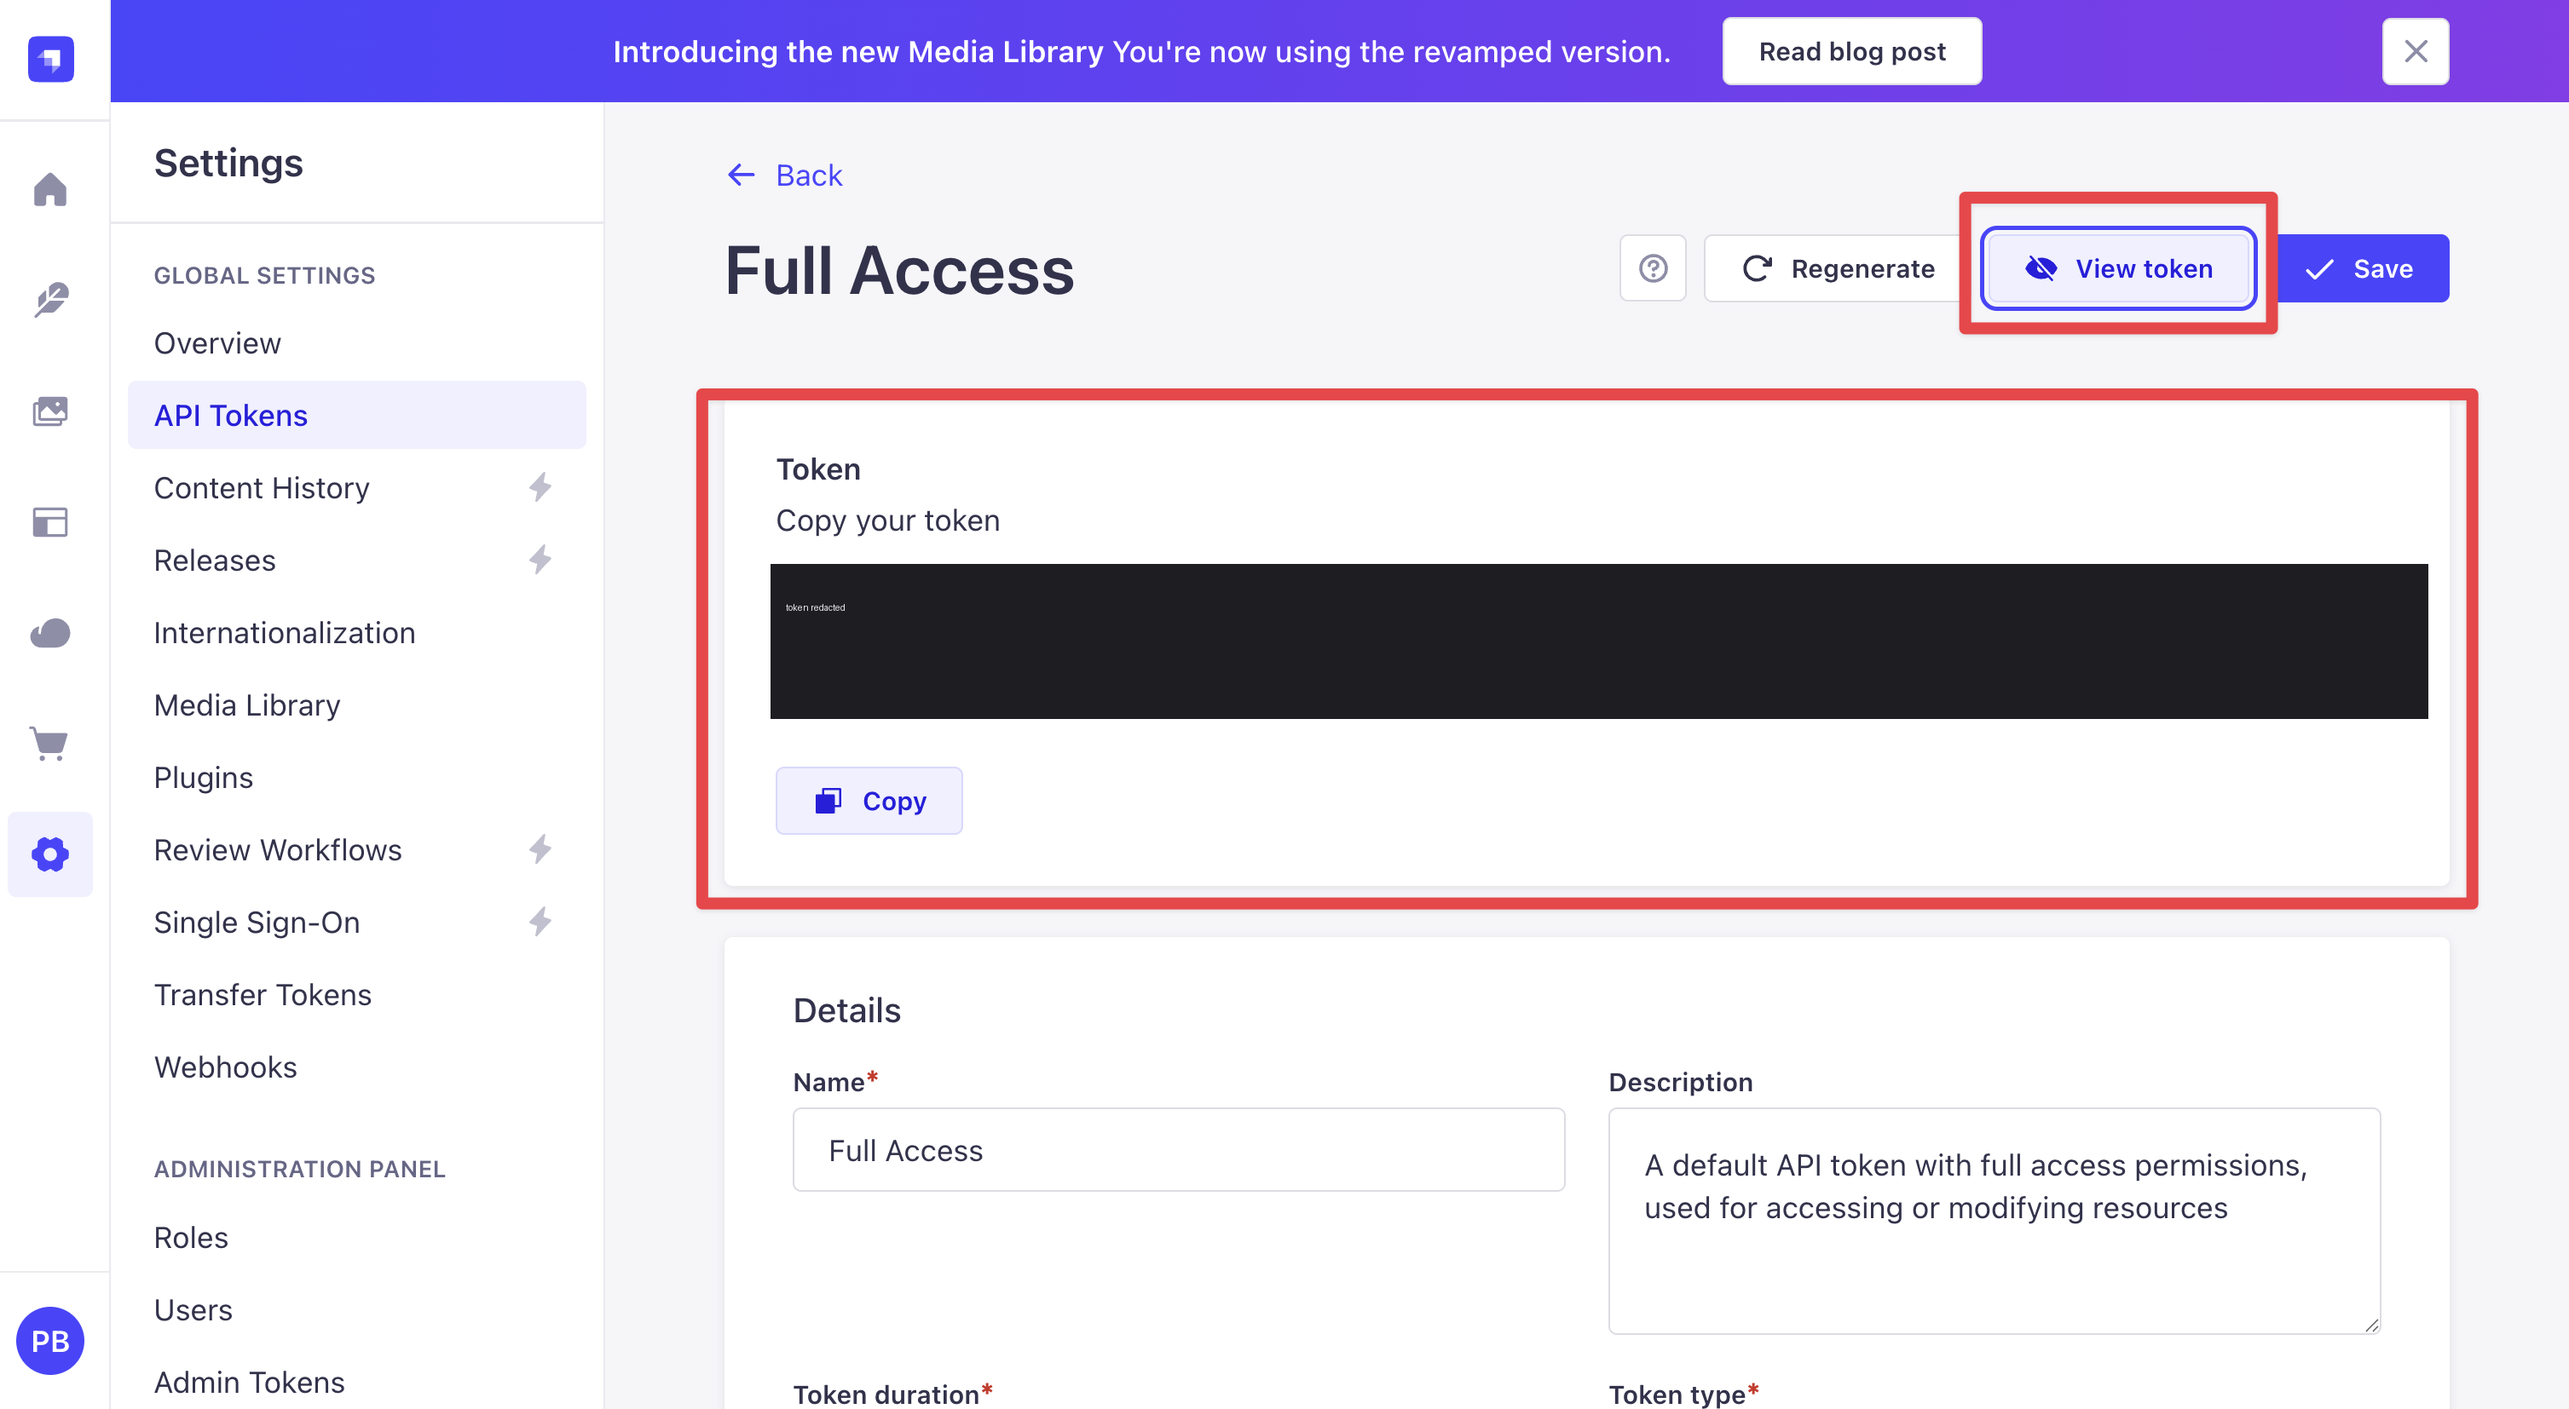
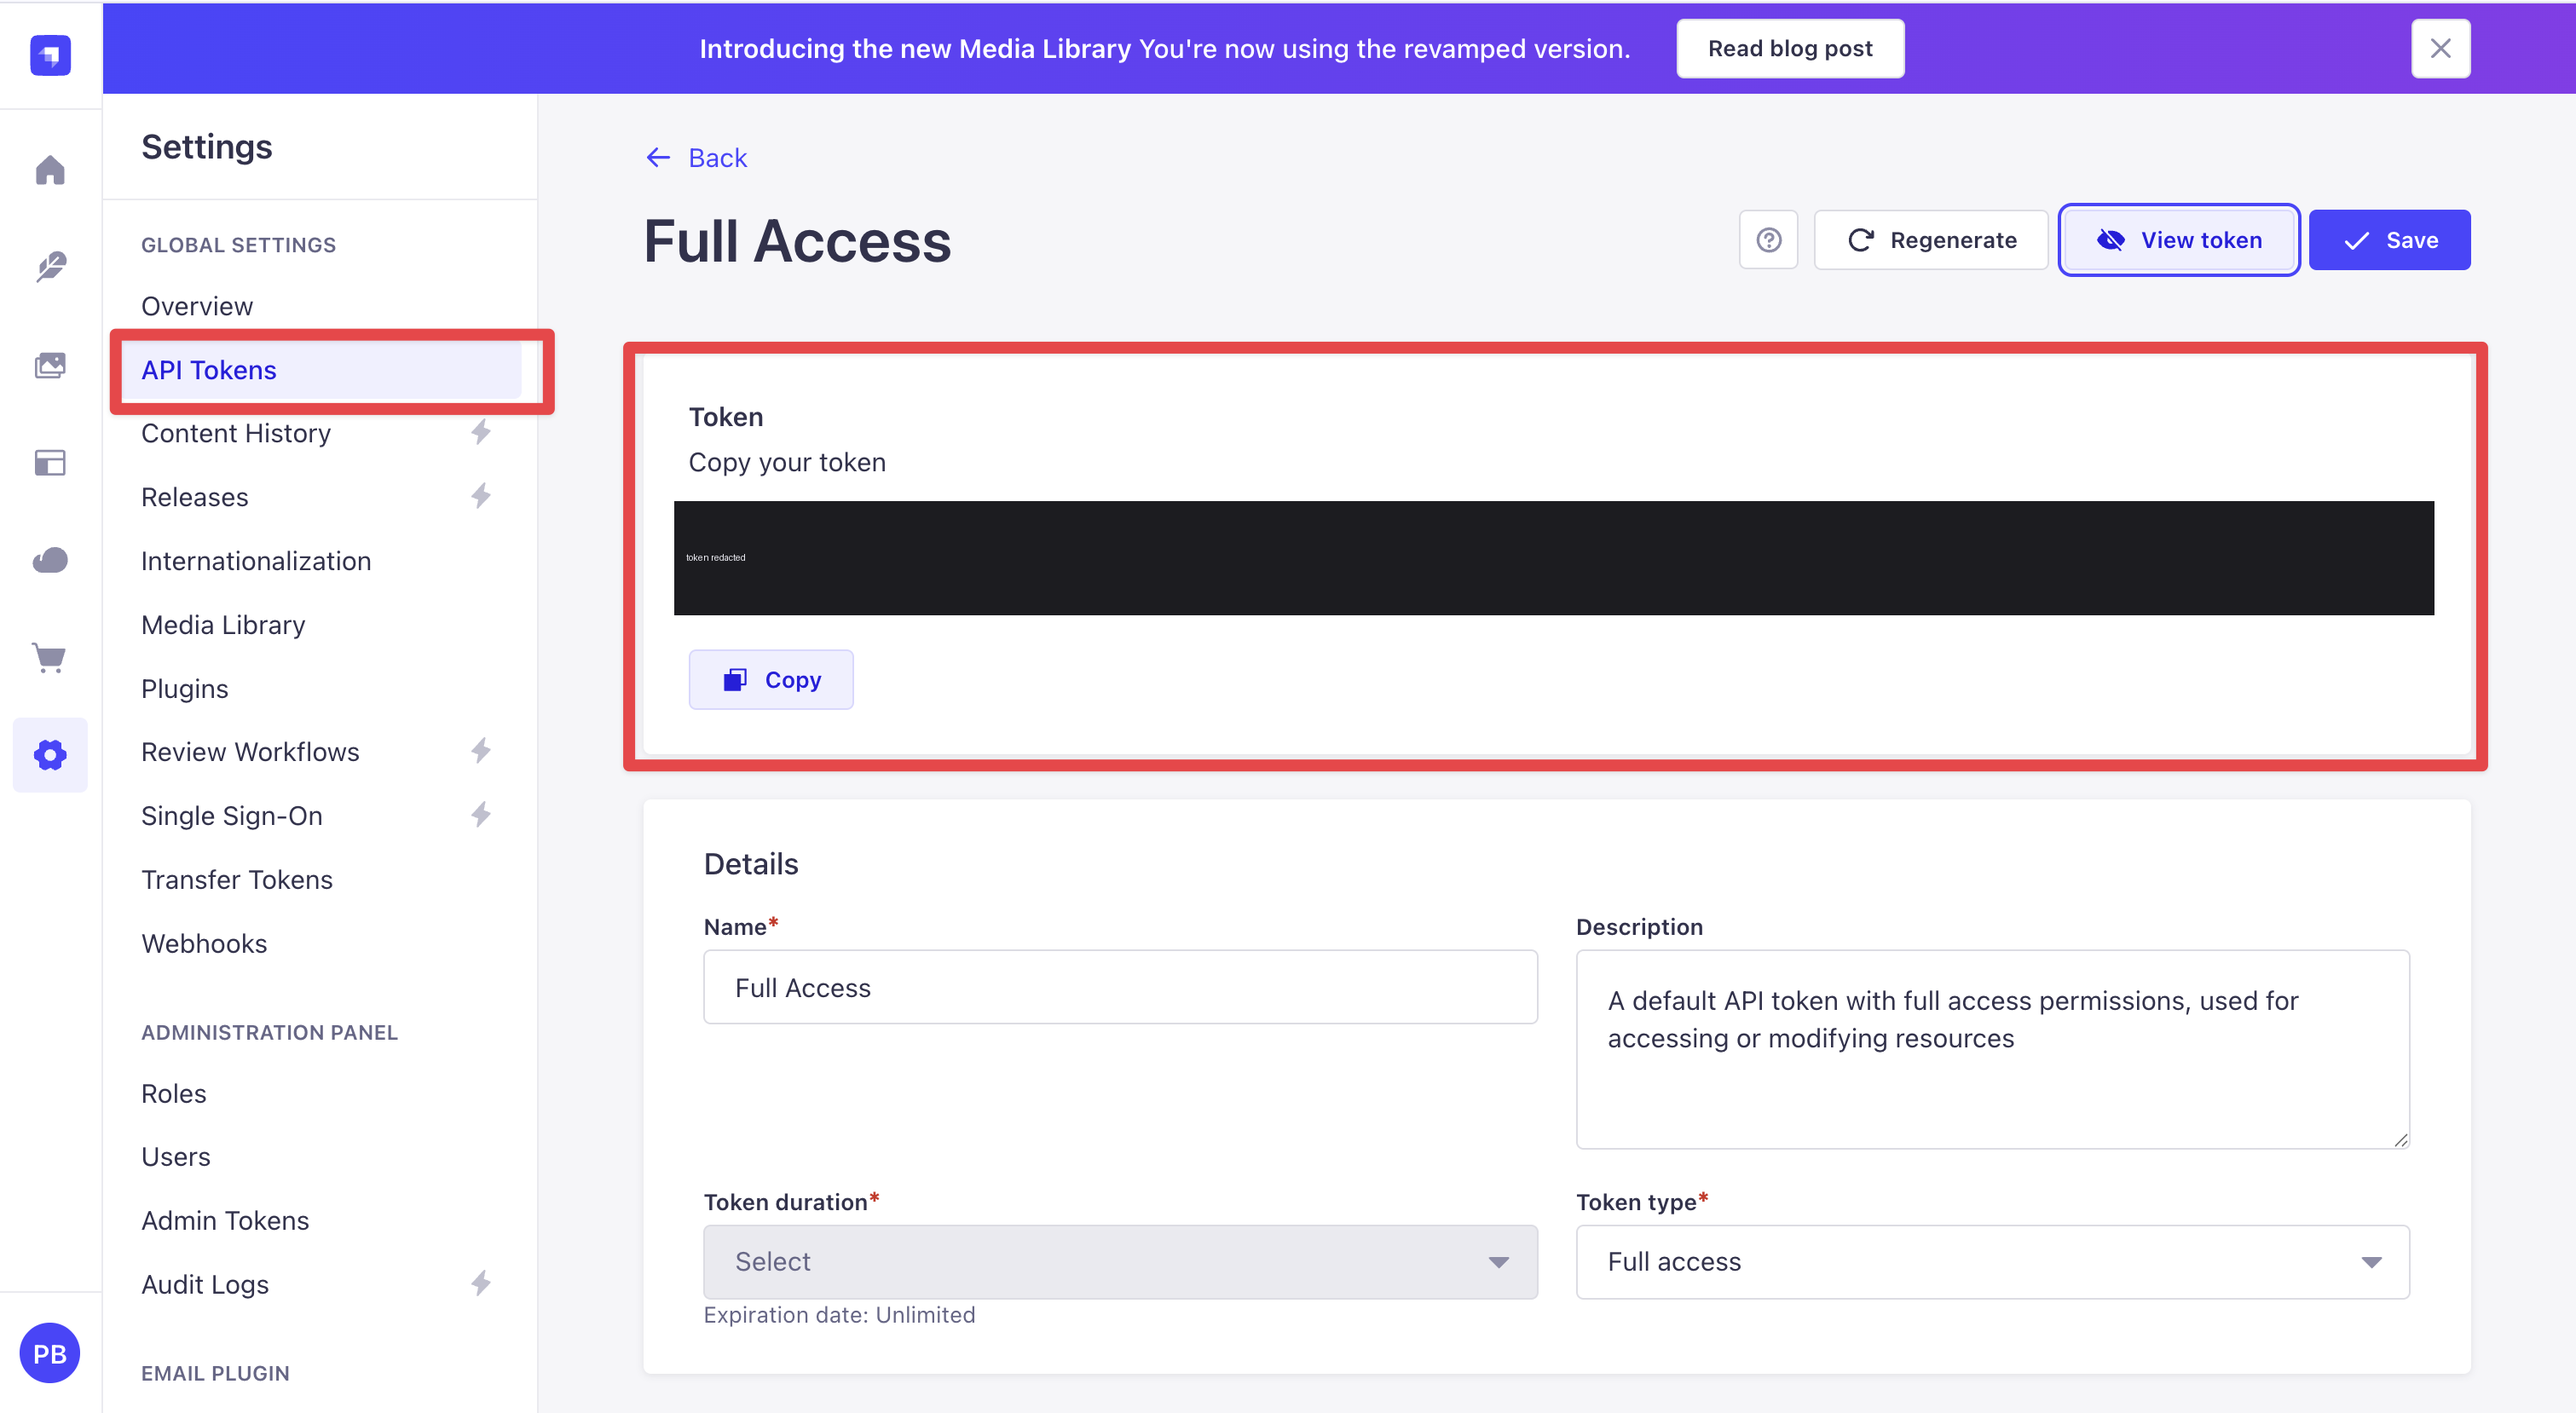
docs(blog): reframe the scale section, and add the application-password screenshot
"What breaks at 100,000 entries" described a limit that had already been fixed
and read as a list of reasons not to trust the tool. It is now "Running it on a
big site", and it leads with what the engine does for you: the export writes one
file per post type as it goes and resumes where it stopped, uploads are
remembered in .migration-state.json, a re-run updates rather than duplicating
because every entry stores its WordPress id and source site, --only, --limit and
--since take the job in slices, and preflight refuses a run it cannot finish.

Three things to keep in mind follow, as separate bullets rather than one
paragraph: memory, time, relations, each said in terms of what a reader would
notice. Then the caveat: on a genuinely large site, use the skill to settle the
content model, which costs the same at 300 entries or 300,000, and ask Claude to
write a loader built for those numbers with WP-CLI and the Document Service API.

Dropped the strapi import and strapi transfer paragraph. Those move data between
Strapi projects with identical content types and have nothing to do with reading
WordPress. Also dropped the history of the old single-file export and the
536,870,888 character limit, which described a bug the reader will never meet.

The lead-in above the section contradicted it, saying this is the wrong tool for
tens of thousands of entries one line before the section says most of that is
handled. It now hands off to the section instead.
[…]

diff --git a/docs/blog/wordpress-to-strapi.md b/docs/blog/wordpress-to-strapi.md
@@ -575,11 +575,10 @@ site, including drafts and custom fields.
 
 1. In WP Admin, go to **Users, Profile**.
 2. Scroll down to **Application Passwords**.
-3. Type a name such as `strapi-migration` and click **Add Application Password**.
-4. Copy the password it shows. WordPress will not show it again.
-
+3. Type a name such as `test-strapi-migration` and click **Add Application Password**.
 ![The Application Passwords section of a WordPress user profile, with Users, Profile highlighted in the left menu, a name typed into the New Application Password Name field, and the Add Application Password button below it.](images/011-local-setup-4.png)
-
+4. Copy the password it shows. WordPress will not show it again.
+![WordPress showing the new application password after it is created, with the password itself blacked out here, above a table listing it by name with a Revoke button.](images/011-local-setup-7.1.png)
 
 You will give it to Claude in section 3.
 
@@ -839,54 +838,57 @@ go, and the run reports every widget it skipped with counts, which is the to-do 
 file. `SKILL.md` is what Claude reads, so a house rule like "always use a dynamic zone for
 landing pages" is one sentence.
 
-**Know when this is the wrong tool.** If you are moving tens of thousands of entries, or you need
-a production cutover with a rollback plan, you want purpose-built tooling and a staging rehearsal.
+**Know what changes on a bigger site.** A production cutover needs a rehearsal on a staging copy
+and a way back if it goes wrong, whatever tool you use. Size changes things too, and the next
+section covers what the skill handles for you and what it does not.
 
-### What breaks at 100,000 entries
+### Running it on a big site
 
-The largest site we have run this against held 343 entries and 204 files. Until recently the
-export wrote everything into one `export.json`, and the analyze and migrate steps parsed that
-whole file. On a site with 100,000 posts the file passes what Node can hold in a single string,
-536,870,888 characters on the version we tested, and the run stops before any decision is made.
+The biggest site we have run this against had 343 entries and 204 files. Most of what makes a
+large run painful is already handled, and the rest is worth knowing before you start.
 
-The export now writes one file per post type, `wp-export/entries/<type>.ndjson`, with one entry
-per line, plus a small `export.json` holding the site, types, taxonomies, terms, users and media.
-Nothing is ever one giant string, and because each type's file is complete the moment it is
-written, an interrupted export resumes instead of starting again. Only `--fresh` re-fetches what
-is already on disk.
+**The run picks up where it stopped.** The export writes one file per post type as it goes, so a
+run that dies on type nine keeps the eight it finished. Start it again and it only fetches what is
+missing. `--fresh` re-fetches everything.
 
-Three limits are still real at that size. A whole-site run holds every entry in memory, so 100,000
-posts is bounded by RAM rather than by a parse error. Entries migrate four at a time, each costing
-an API call to look up and another to write, which is hours of wall clock. And relations are wired
-by listing every existing entry of the target type, 100 per request, held in one map.
+**Uploaded files are remembered.** Every upload is recorded in `.migration-state.json`. A second
+run reuses the file already in Strapi instead of sending it again, which matters because images
+take far longer than text.
 
-**What to do instead.** Use the skill for the part it is good at, which is deciding the content
-model, then move the bulk another way:
+**Running it again is safe.** Each entry stores the WordPress id and the site it came from, so a
+second run updates that entry rather than creating a duplicate. This is what makes it reasonable
+to stop half way, change the config, and continue.
 
-- **Rehearse on a slice.** `--only post --limit 500` on a copy gives you a content model, a
-  `migration-plan.md` and a list of what does not convert cleanly. That is the expensive thinking,
-  and it is the same at any size.
-- **Read WordPress from the database, not the REST API.** WP-CLI will page through content without
-  HTTP overhead or authentication: `wp post list --post_type=post --format=json --fields=ID,post_title,post_name,post_date,post_status`.
-  Write one file per type, or per month, so nothing has to be parsed whole.
-- **Write into Strapi from inside Strapi.** The
-  [Document Service API](https://docs.strapi.io/cms/api/document-service) runs in the application
-  rather than over HTTP: `await strapi.documents('api::post.post').create({ data })`. There is no
-  bulk create, so you still loop, but you drop the per-request cost and the token. Run it from a
-  script the project loads, and use Postgres rather than the tutorial's SQLite.
-- **Keep every batch repeatable.** Match entries on their WordPress id and source site, the way
-  the engine does, so a rerun updates instead of duplicating and you can stop and resume per type
-  or per date range.
-- **Move the files separately.** Media is the slow half. Copy the uploads directory and register
-  the files, or point Strapi at the same S3 bucket, instead of downloading and re-uploading each
-  one through the API.
-- **Plan the cutover as two passes.** Migrate the archive while the old site keeps publishing,
-  then catch up on what changed with a date filter, which is what `--since` does here.
+**You can take it in slices.** `--only post,page` does two types. `--limit 200` does the first two
+hundred entries of each. `--since 2026-01-01` does only what changed after a date, which is how
+you catch up on posts published while you were working.
 
-One thing that sounds like a shortcut and is not: `strapi import` and `strapi transfer` only move
-data between Strapi projects whose content types are
-[identical](https://docs.strapi.io/cms/data-management/import). They are useful for pushing a
-finished dataset from a local run to production, and useless for reading WordPress.
+**It refuses to start a run it cannot finish.** The checks before the first write catch a relation
+pointing at a type nobody defined, a component Strapi has not loaded, or a token that cannot
+write. A half-finished migration is worse than one that never began.
+
+Three things to keep in mind as the numbers grow:
+
+- **Memory.** The analyze and migrate steps load every entry of the types they are working on.
+  A single run covering 100,000 posts wants more memory than most laptops have.
+- **Time.** Entries are written four at a time, and each one costs a request to look for it and
+  another to write it. A large run is measured in hours.
+- **Relations.** Before connecting a post to its author, the engine fetches every author already
+  in Strapi, 100 per request.
+
+All three get easier the same way: work one post type at a time, and use `--limit` while you are
+still deciding what the model should be.
+
+**For a genuinely large site, split the job.** Use the skill for the content model, which costs the
+same whether you have 300 entries or 300,000: run it on a few hundred, read `migration-plan.md`,
+and settle what each field becomes. Then, with that model decided, ask Claude to write a loader
+built for your numbers. The pieces are well documented: read WordPress with WP-CLI rather than the
+REST API (`wp post list --post_type=post --format=json`), and write into Strapi from inside the
+application with
+[`strapi.documents('api::post.post').create({ data })`](https://docs.strapi.io/cms/api/document-service),
+which needs no HTTP request and no API token. Keep the two habits the engine uses: store the
+WordPress id on every entry so a re-run updates instead of duplicating, and move the files
+separately from the text.
 
 Everything here is in
 [github.com/PaulBratslavsky/wordpress-to-strapi-demo](https://github.com/PaulBratslavsky/wordpress-to-strapi-demo):
